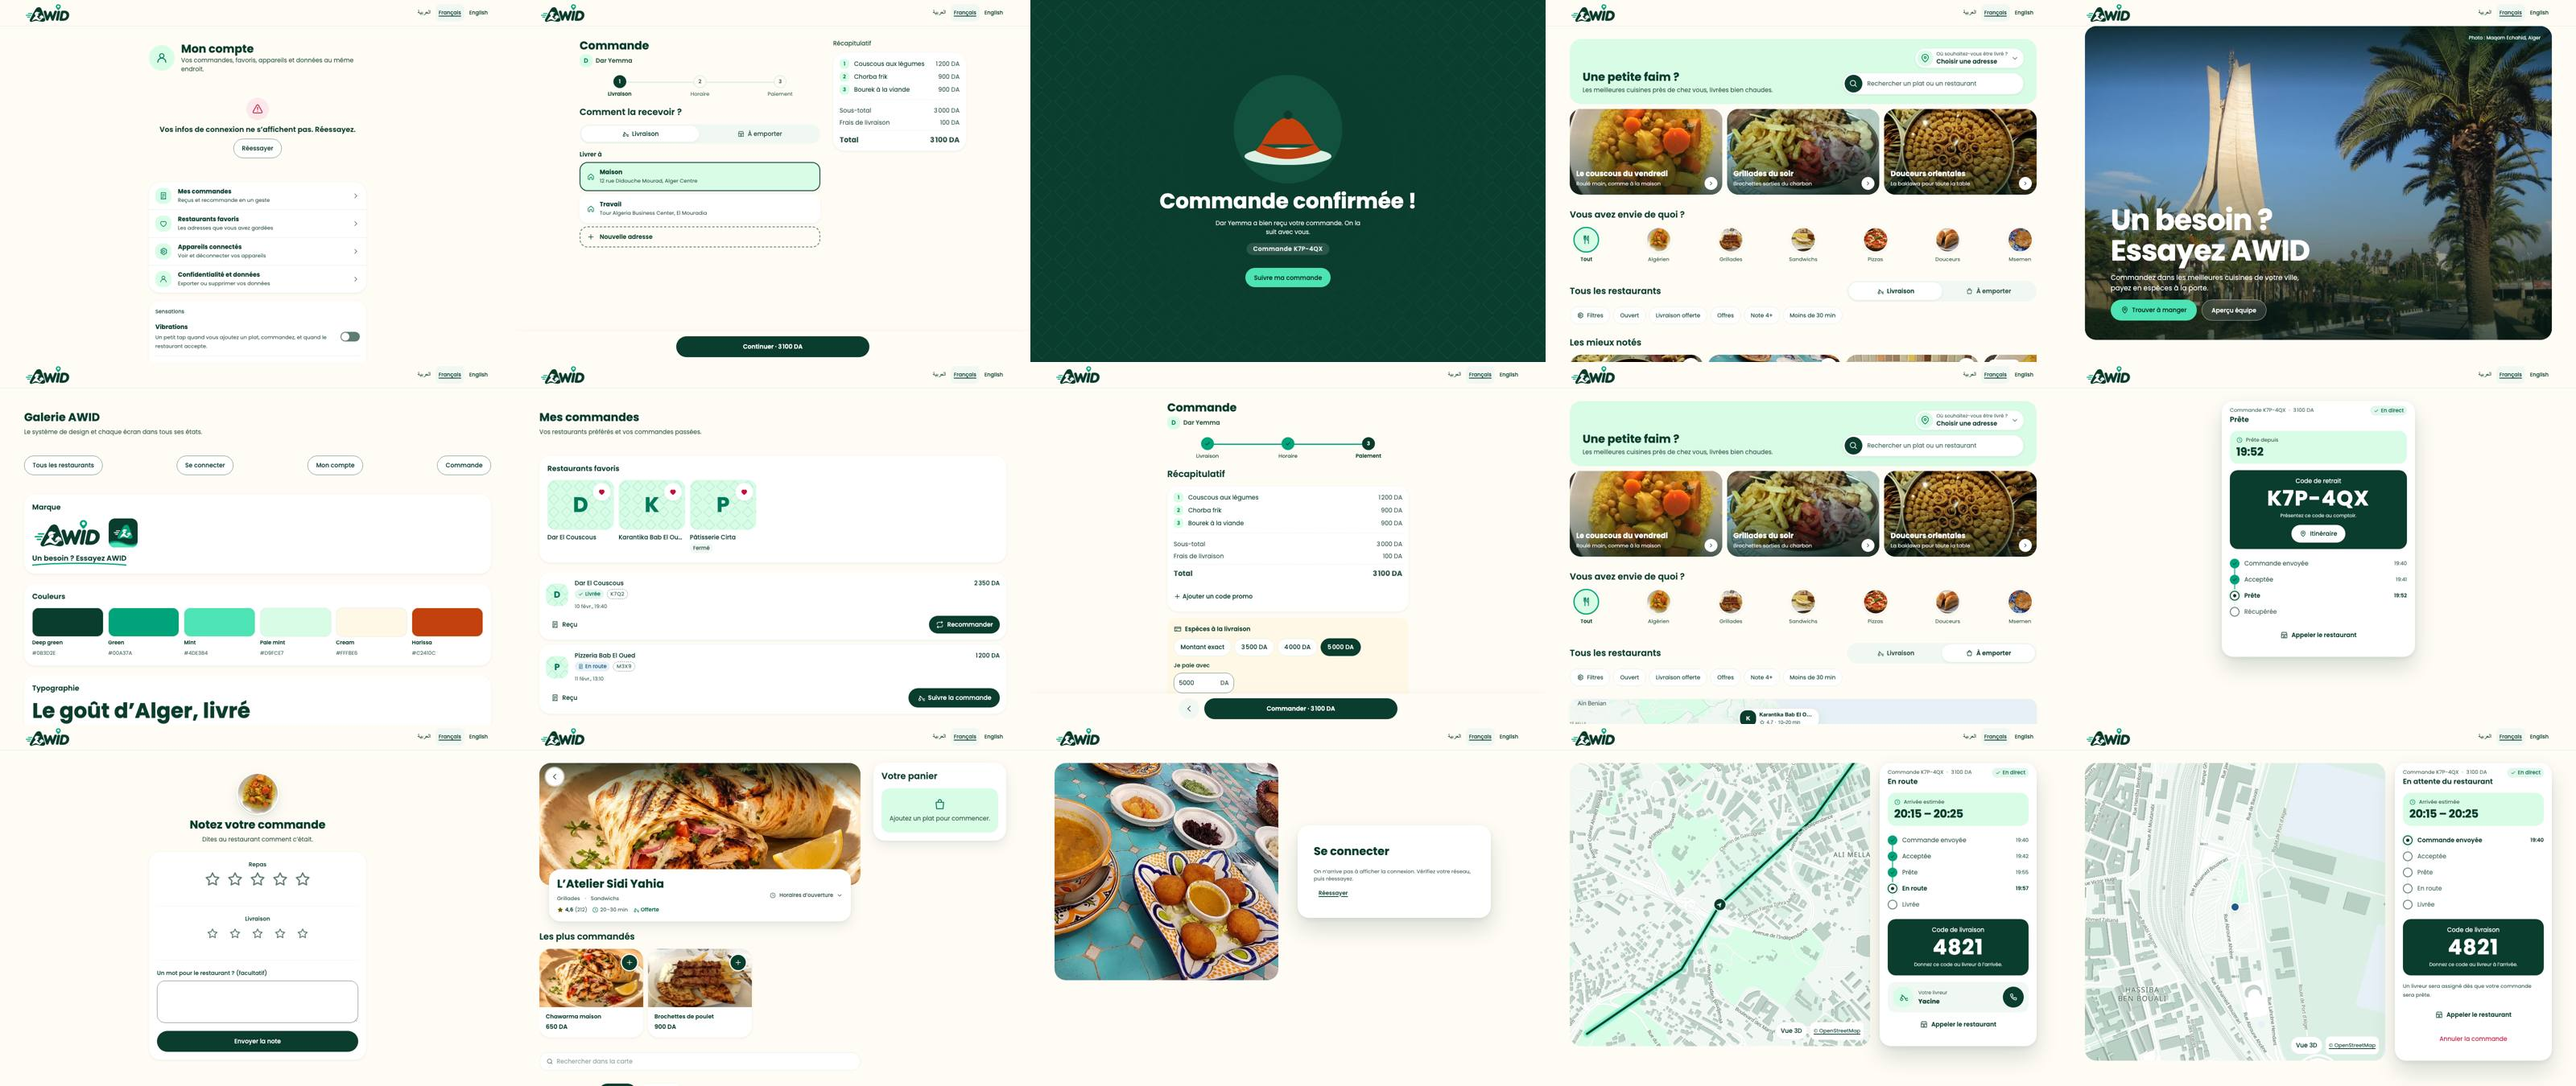
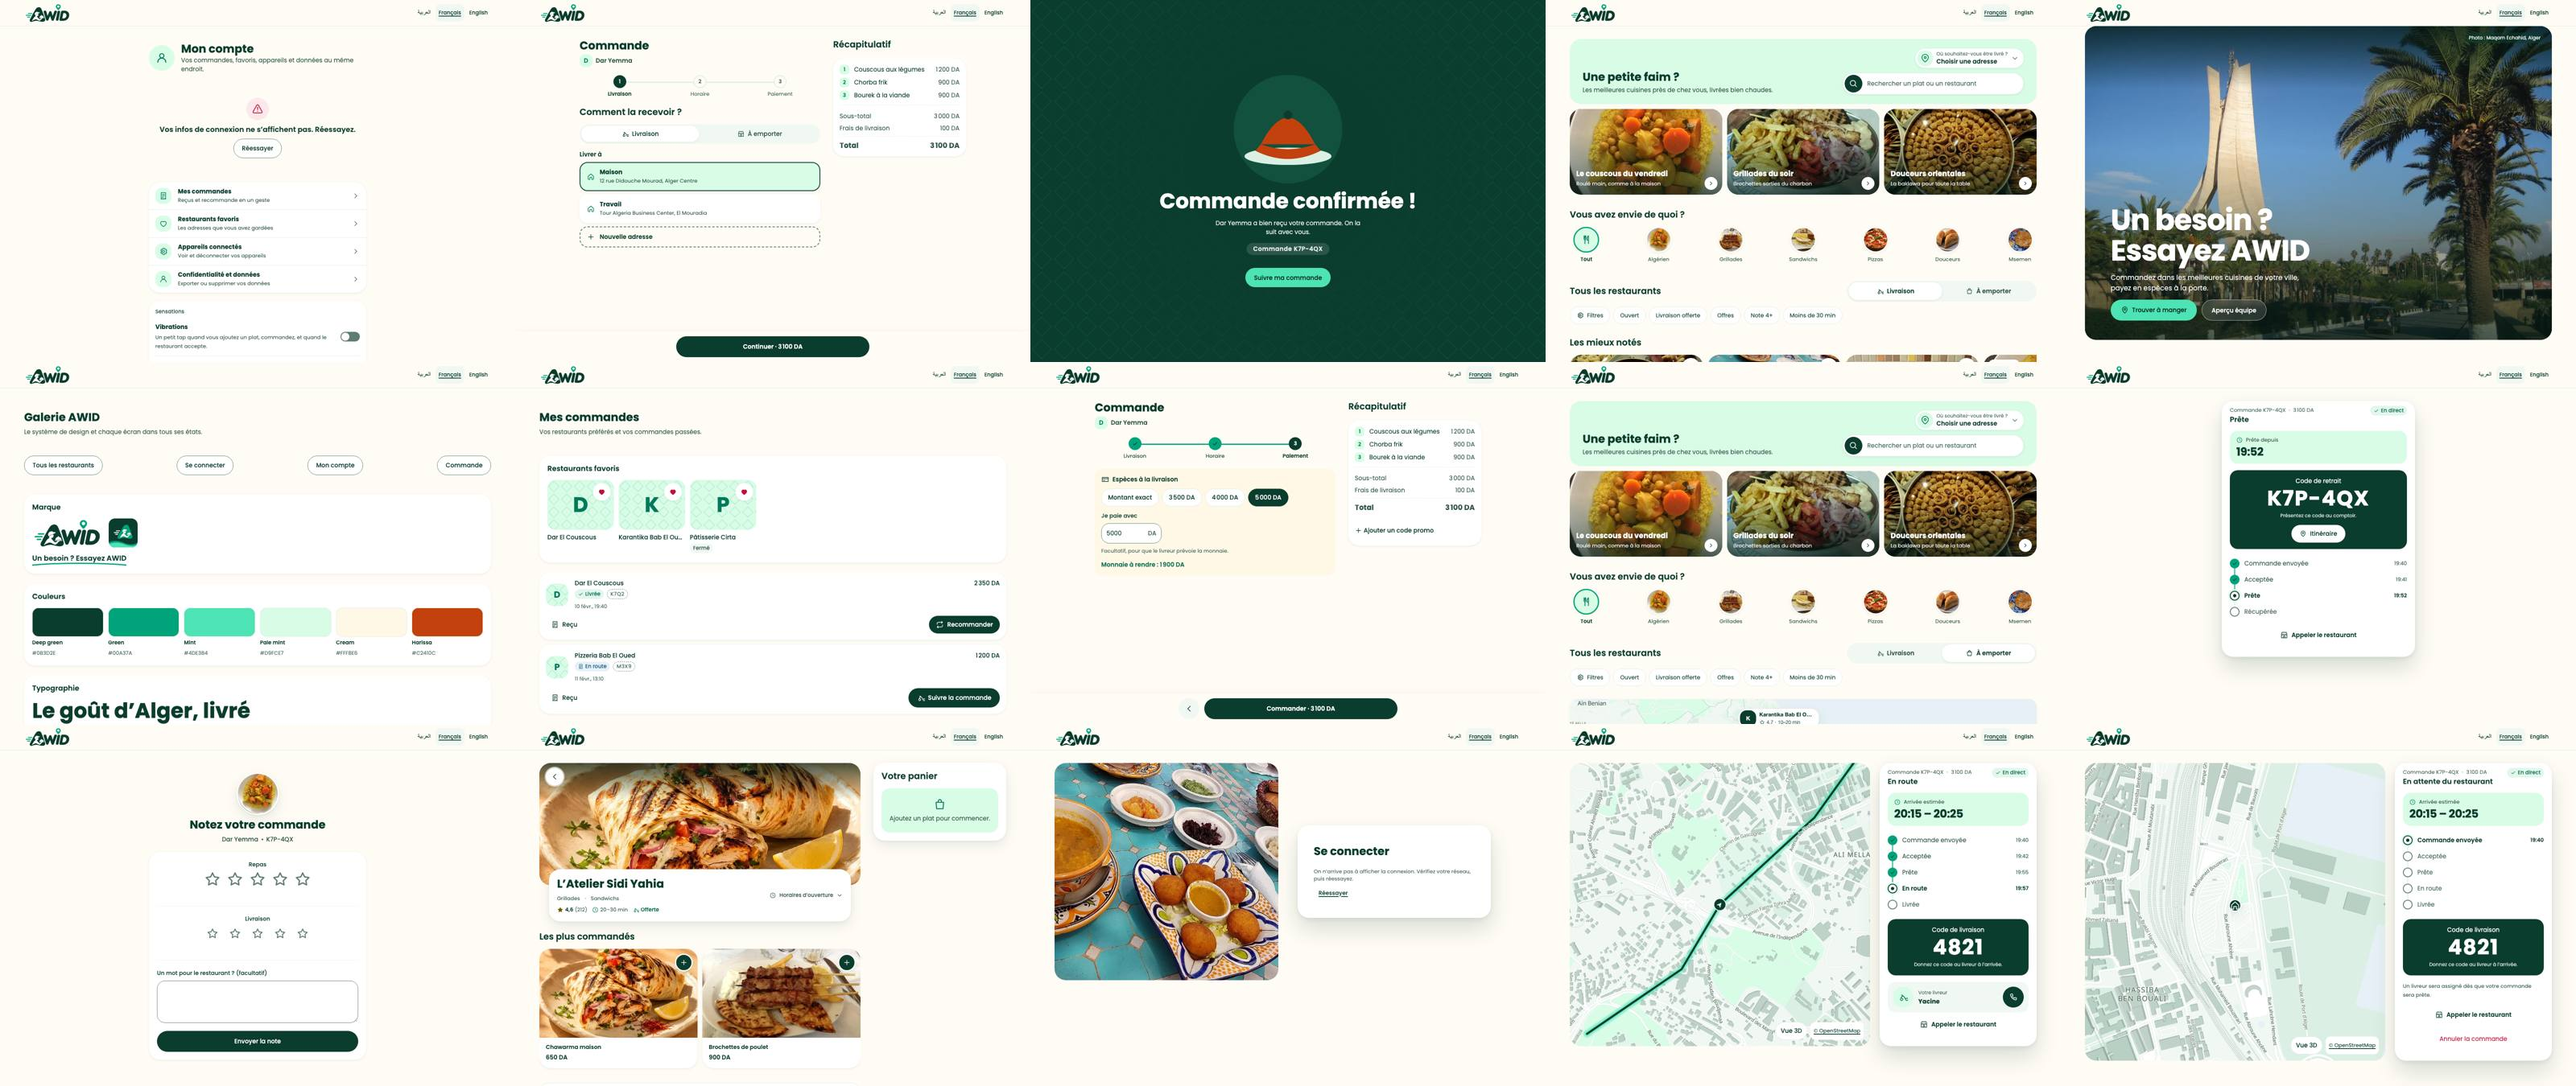
fix(web): align checkout steps on desktop, gallery chevrons, round 4 scores

diff --git a/apps/web/src/checkout/checkout.css b/apps/web/src/checkout/checkout.css
@@ -139,7 +139,8 @@
   gap: var(--space-16);
 }
 
-.checkout-step h2 {
+.checkout-step h2,
+.checkout-aside h2 {
   font: var(--font-weight-h2) var(--font-size-h2) / var(--line-height-h2) var(--font-display);
 }
 
@@ -659,33 +660,41 @@
     grid-column: 1;
   }
 
-  /* Step 3 keeps the same two columns: the receipt moves to the end side, cash on the start. */
+  /*
+   * Step 3 uses the same page grid as steps 1–2: the stepper stays in the start column and the
+   * summary heading sits at the top of the end column. The step's own wrappers dissolve
+   * (display: contents) so the heading and receipt become items of the page grid.
+   */
   .checkout:has(.checkout-payment-step) {
-    max-inline-size: 64rem;
-  }
-
-  .checkout-payment-step {
     grid-template-columns: minmax(0, 1fr) 22rem;
     column-gap: var(--space-32);
     align-items: start;
+    max-inline-size: 64rem;
   }
 
-  /* Start-side blocks span two rows each, so the receipt column starts at the top too. */
+  .checkout:has(.checkout-payment-step) > *,
   .checkout-payment-step > * {
     grid-column: 1;
-    grid-row: span 2;
   }
 
-  .checkout-payment-step > h2 {
+  .checkout-body:has(.checkout-payment-step),
+  .checkout-payment-step {
+    display: contents;
+  }
+
+  /* ".checkout" in front: the minifier merges the start-column rule into a stronger :is(). */
+  .checkout .checkout-payment-step > h2 {
     grid-column: 2;
-    grid-row: 1 / span 1;
+    grid-row: 1;
   }
 
-  .checkout-payment-step > .checkout-receipt {
+  /* Starts under the heading by the heading's height, exactly as in the steps 1–2 aside. */
+  .checkout .checkout-payment-step > .checkout-receipt {
     position: sticky;
     inset-block-start: var(--space-24);
     grid-column: 2;
-    grid-row: 2 / span 3;
+    grid-row: 1 / span 5;
+    margin-block-start: calc(var(--line-height-h2) + var(--space-20));
   }
 
   .checkout-aside {
@@ -693,8 +702,8 @@
     position: sticky;
     inset-block-start: var(--space-24);
     grid-column: 2;
-    grid-row: 1 / span 3;
-    gap: var(--space-12);
+    grid-row: 1 / span 4;
+    gap: var(--space-20);
   }
 }
 

diff --git a/apps/web/src/admin/gallery/operations-gallery.tsx b/apps/web/src/admin/gallery/operations-gallery.tsx
@@ -1,6 +1,7 @@
 "use client";
 
 import type { Locale } from "@zaafran/i18n/locales";
+import { Icon } from "@zaafran/ui";
 import type { AdminOrderPage } from "../orders/orders-http";
 import { OrderList } from "../orders/admin-orders-screen";
 import type { Jobs } from "../../courier/courier-http";
@@ -80,15 +81,24 @@ export function OperationsGallery({
   return (
     <div className="operations-gallery">
       <details open>
-        <summary>{labels.merchant}</summary>
+        <summary>
+          {labels.merchant}
+          <Icon name="chevron" size={20} />
+        </summary>
         <BoardColumns board={board} locale={locale} offline refresh={noop} />
       </details>
       <details open>
-        <summary>{labels.courier}</summary>
+        <summary>
+          {labels.courier}
+          <Icon name="chevron" size={20} />
+        </summary>
         <CourierJob job={courier} locale={locale} offline refresh={noop} />
       </details>
       <details open>
-        <summary>{labels.admin}</summary>
+        <summary>
+          {labels.admin}
+          <Icon name="chevron" size={20} />
+        </summary>
         <OrderList page={adminPage} selected={orderId} locale={locale} onSelect={noop} />
       </details>
     </div>

diff --git a/apps/web/src/admin/gallery/operations-gallery.css b/apps/web/src/admin/gallery/operations-gallery.css
@@ -16,8 +16,12 @@
   padding-block-end: var(--space-16);
 }
 
+/* The icon set's chevron replaces the browser's default ▼ marker and turns when open. */
 .operations-gallery > details > summary {
-  align-content: center;
+  display: flex;
+  align-items: center;
+  justify-content: space-between;
+  list-style: none;
   min-block-size: var(--touch-target-min);
   color: var(--color-text);
   font-weight: var(--font-weight-label);
@@ -26,4 +30,23 @@
 
 .operations-gallery > details[open] > summary {
   margin-block-end: var(--space-12);
+}
+
+.operations-gallery > details > summary::-webkit-details-marker {
+  display: none;
+}
+
+.operations-gallery > details > summary svg {
+  transform: rotate(90deg);
+  transition: transform var(--motion-fast) var(--ease-standard);
+}
+
+.operations-gallery > details[open] > summary svg {
+  transform: rotate(-90deg);
+}
+
+@media (prefers-reduced-motion: reduce) {
+  .operations-gallery > details > summary svg {
+    transition: none;
+  }
 }

diff --git a/docs/RELEASE_REPORT.md b/docs/RELEASE_REPORT.md
@@ -8,7 +8,7 @@ The branch is `lane-b`, merged with `origin/lane-a`. Every push below passed the
 
 ### Verdict
 
-The customer screens are ready for review, with no open accessibility, layout-shift or frame-rate gaps on the measured routes. The design critic's final round scored every screen between 8 and 9 out of 10. Each remaining point has a named reason: a product limit, or one of the six open defects listed below.
+The customer screens are ready for review, with no open accessibility, layout-shift or frame-rate gaps on the measured routes. The design critic's fourth round scored every screen between 8 and 9 out of 10, with ten of fifteen at 9. Each remaining point has a named reason: a product limit, or one of the six open defects listed below.
 
 The numbers are lab results on a Mac using lane A's throttled Android profile. They have not been confirmed on a physical Android phone.
 
@@ -19,30 +19,30 @@ The numbers are lab results on a Mac using lane A's throttled Android profile. T
 | Accessibility (axe WCAG 2.2 AA, 44 px targets, visible focus) on 15 routes × ar/fr × light/dark × 390/1280 | 0 violations, 0 small targets, 0 invisible focus | [a11y/final-run.json](evidence/awid/a11y/final-run.json) |
 | Layout shift (CLS), 3 runs | 0 on Discovery, Restaurant, Checkout and Tracking, including when map tiles fail | [perf/perf-feel-final-run.json](evidence/awid/perf/perf-feel-final-run.json) |
 | Scrolling | 60 fps on all four routes, 0–1 % long frames | same |
-| Tap to paint | ≤ 80 ms. One exception: the favourite heart takes 128 ms when tapped during the second after switching to Pickup, while the map draws its first frame. It takes 16–32 ms otherwise. | same, [perf.md](evidence/awid/perf.md) |
+| Tap to paint | ≤ 72 ms. One exception: the favourite heart takes 112–128 ms when tapped within a second of switching to Pickup, while the map draws its first frame. It takes 32 ms otherwise. | same, [perf.md](evidence/awid/perf.md) |
 | Security review of lane B's diff | No findings. Browser storage holds no secrets, tokens, phone numbers or street addresses. | [security.md](evidence/awid/security.md) |
 
-### Design critic scores (final round, weakest variant)
+### Design critic scores (round 4, weakest variant)
 
-A separate reviewer agent, which did not take part in building the screens, scored 15 screens in four variants: 390 px Arabic, 390 px French, 1280 px French, and 390 px dark. It scored three rounds in all. Motion is capped at 7 because still frames can't show it; the motion evidence is in [feel](evidence/awid/feel/README.md) and [perf.md](evidence/awid/perf.md).
+A separate reviewer agent scored 15 screens in four variants: 390 px Arabic, 390 px French, 1280 px French and 390 px dark. It did not take part in building them. This is its fourth round; round 1 is shown for comparison. Motion is capped at 7 because still frames can't show it; the motion evidence is in [feel](evidence/awid/feel/README.md) and [perf.md](evidence/awid/perf.md).
 
 | Screen | Visual | UX | Motion | A11y | RTL | Overall | Round 1 | What holds it under 10 |
 |---|---|---|---|---|---|---|---|---|
 | Landing | 8 | 9 | 7 | 9 | 9 | 8.5 | 8 | Limit: the hero photo is a monument, not food (imagery pending) |
-| Discover | 9 | 9 | 7 | 9 | 9 | 9 | 7 | Fixed after scoring: compact rail cards drop the clipped "Ouvre le …" line (the cover's "Fermé" badge stays, the full card gives the time) |
-| Pickup | 9 | 9 | 7 | 9 | 9 | 9 | 7 | Defect: a 1280 page ends on bare links, with no footer |
-| Restaurant | 8 | 8 | 7 | 9 | 9 | 8 | 7 | Fixed after scoring: two or three popular dishes share the row at 1280. By design: later categories load as you scroll near them, so full-page captures show their skeletons |
+| Discover | 9 | 9 | 7 | 9 | 9 | 9 | 7 | Motion only |
+| Pickup | 9 | 9 | 7 | 9 | 9 | 9 | 7 | Open (P2): a 1280 page ends on bare links, with no footer. Limit: the grid's last row depends on the data |
+| Restaurant | 9 | 9 | 7 | 9 | 9 | 9 | 7 | By design: later categories load as you scroll near them, so full-page captures show their skeletons |
 | Sign-in | 8 | 8 | – | 9 | 9 | 8.5 | 7 | Limit: the preview build has no login backend |
 | Account | 8 | 9 | – | 9 | 9 | 8.5 | 7.5 | Limit: no login backend |
-| Checkout | 9 | 9 | 7 | 9 | 8 | 9 | 6.5 | Limit: saved address labels are the customer's own text |
-| Payment | 8 | 9 | 7 | 9 | 9 | 8.5 | 7 | Fixed after scoring: step 3 keeps two columns at ≥ 1024 px, cash on the start side and the receipt beside it |
-| Confirmed | 7 | 9 | 7 | 9 | 9 | 8 | 8 | Open: the cloche drawing needs redrawing |
-| Tracking | 9 | 9 | 7 | 9 | 9 | 9 | 7 | Limit: restaurant and home markers need lane A's tracking data |
-| Waiting | 8 | 8 | 7 | 9 | 9 | 8.5 | 7 | Fixed after scoring: the address is the brand home pin. Limit: the restaurant marker needs lane A's tracking data |
-| Pickup tracking | 8 | 9 | 7 | 9 | 9 | 9 | 6 | Fixed after scoring: no grab handle when there is no map behind the sheet |
-| Rating | 8 | 8 | 7 | 9 | 9 | 8.5 | 7 | Fixed after scoring: the subtitle names the restaurant and the order code (from the first page of order history) |
+| Checkout | 9 | 9 | 7 | 9 | 8 | 8.5 | 6.5 | Fixed after round 4: the stepper, summary heading and receipt sit at the same place on steps 1 and 3 (measured: identical pixel offsets). Limit: saved address labels such as "Maison" are the customer's own words |
+| Payment | 9 | 9 | 7 | 9 | 9 | 9 | 7 | Motion only |
+| Confirmed | 7 | 9 | 7 | 9 | 9 | 8 | 8 | Open: the cloche drawing needs redrawing (illustration work) |
+| Tracking | 9 | 9 | 7 | 9 | 9 | 9 | 7 | Limit: the restaurant marker needs lane A's tracking data |
+| Waiting | 9 | 9 | 7 | 9 | 9 | 9 | 7 | Limit: same lane A dependency |
+| Pickup tracking | 9 | 9 | 7 | 9 | 9 | 9 | 6 | Motion only |
+| Rating | 9 | 9 | 7 | 9 | 9 | 9 | 7 | Motion only |
 | Orders | 9 | 9 | 7 | 9 | 9 | 9 | 5.5 | Limit: letter logos until restaurants upload their own |
-| Operations gallery | 8 | 8 | – | 9 | 8 | 8.5 | 5 | Limit: lane A's screens shown in the dev gallery; its state switch is a dev tool |
+| Operations gallery | 8 | 8 | – | 9 | 8 | 8.5 | 5 | Fixed after round 4: chevron markers on the section headers. Limit: lane A's screens shown in a dev gallery whose state switch is a dev tool. Lane A (P2): the overdue notice sits in a banner instead of on its invoice row |
 
 Final contact sheets: [ar-390](evidence/awid/final/sheet-ar-390.jpg), [fr-390](evidence/awid/final/sheet-fr-390.jpg), [fr-1280](evidence/awid/final/sheet-fr-1280.jpg), [fr-390 dark](evidence/awid/final/sheet-fr-390-dark.jpg).
 
@@ -79,5 +79,5 @@ Final contact sheets: [ar-390](evidence/awid/final/sheet-ar-390.jpg), [fr-390](e
   - These were not installed. Each one downloads and runs code from an outside repository, and the agent doesn't run unvetted downloads by itself.
   - The repo's own Playwright, axe and audit scripts did the same jobs.
   - Steps for Mahdi are in [HUMAN_TODO](HUMAN_TODO.md).
-- **The critic's six open defects** were fixed after its final round (marked "Fixed after scoring" in the table). The scores above are from before those fixes; they were not re-scored.
+- **Two fixes came after round 4** (the checkout step alignment and the gallery chevrons, marked in the table); they were measured but not re-scored. The Pickup footer and the confirmation cloche drawing remain open.
 - **A physical Android check** of frame rate, layout shift and tap latency: exact steps for Mahdi are in [HUMAN_TODO](HUMAN_TODO.md) ("Real-phone check of the customer screens").

diff --git a/docs/progress/lane-b.md b/docs/progress/lane-b.md
@@ -125,3 +125,10 @@
 
   `pnpm audit:customer-a11y` 0/0/0. `pnpm perf:customer-feel` × 3: CLS 0, 60 fps on all four routes. `pnpm verify` exit 0. Real-phone steps written in docs/HUMAN_TODO.md.
   Next: Mahdi runs "Real-phone check of the customer screens" in docs/HUMAN_TODO.md and records the numbers in docs/evidence/awid/perf.md; lane B then fixes any route that fails.
+- 2026-11-17 · Critic round 4: every screen scores 8–9 and ten of fifteen score 9. Its one regression is fixed: at ≥ 1024 px the checkout stepper, summary heading and receipt now sit at the same pixel offsets on steps 1 and 3. The operations gallery headers use the icon set's chevron. Commands and results:
+  - `pnpm audit:customer-a11y`: 0/0/0.
+  - `pnpm perf:customer-feel` × 3: CLS 0 and 60 fps on all four routes; taps ≤ 72 ms except the known heart tap during the pickup map's first frame (112–128 ms).
+  - `pnpm verify`: exit 0.
+
+  docs/RELEASE_REPORT.md now holds the round 4 scores and fresh contact sheets.
+  Next: Mahdi runs "Real-phone check of the customer screens" in docs/HUMAN_TODO.md and records the numbers in docs/evidence/awid/perf.md. Lane B then fixes any route that fails, followed by the P2 Pickup footer.
